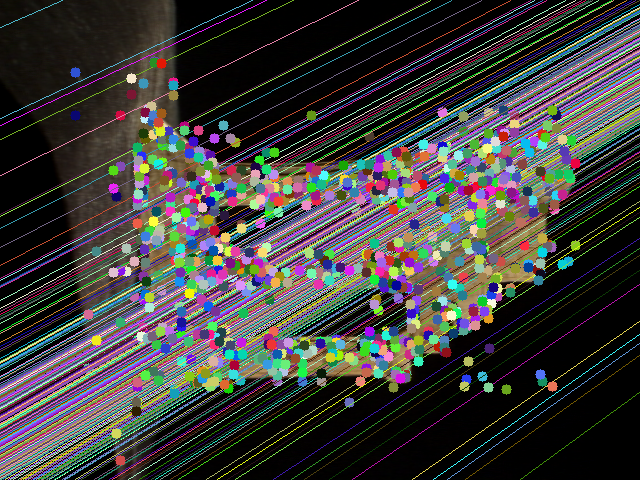
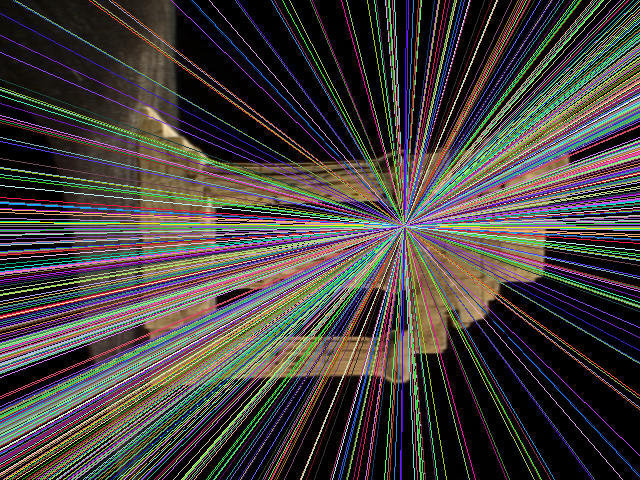
fix: 🐛 fixes at findStereoDisparity and passiveTriangulation

diff --git a/src/multiViewStereo.ts b/src/multiViewStereo.ts
@@ -1,13 +1,18 @@
 import fs from 'fs';
 import path from 'path';
 import { ndMat } from './@types';
+import * as cv from 'opencv4nodejs';
+import Matrix from 'ml-matrix';
+import { matrix2ndMat } from './lib/utils';
+import { getPixelWindow, searchMatchInEpiline } from './lib/stereo';
+import { passiveTriangulation } from './lib/passiveTriangulation';
 
 const fileLines = fs.readFileSync(path.resolve('.', 'datasets', 'temple', 'temple_par.txt'), 'utf-8').split('\n');
 
-const readCameraInformationFromFile = (filename: string) => {
+
+const readCameraProjectionMatrixFromFile = (filename: string) => {
   let K = [] as ndMat;
   let R = [] as ndMat;
-  let t = [] as Array<number>;
 
   fileLines.forEach(line => {
     const parts = line.split(' ');
@@ -25,11 +30,40 @@ const readCameraInformationFromFile = (filename: string) => {
         }
       }
       for (let i = 0; i < 3; i++) {
-        t[i] = Number(parts[i + 19]);
+        R[i].push(Number(parts[i + 19]));
       }
     }
   });
 
-  return { K, R, t };
+  return matrix2ndMat((new Matrix(K)).mmul(new Matrix(R)));
 };
 
+const img1cvMat = cv.imread(path.resolve('.', 'datasets', 'temple', 'temple0001.png'));
+const img2cvMat = cv.imread(path.resolve('.', 'datasets', 'temple', 'temple0002.png'));
+
+
+const img1 = img1cvMat.getDataAsArray();
+const img2 = img2cvMat.getDataAsArray();
+
+
+const P1 = readCameraProjectionMatrixFromFile('temple0001.png');
+const P2 = readCameraProjectionMatrixFromFile('temple0002.png');
+
+let vertex = [];
+const maxDisparity = 255;
+
+for (let i = 0; i < img1.length; i++) {
+  for (let j = 0; j < img1[i].length; j++) {
+    const w = getPixelWindow(img1, [i, j], 5);
+    if (w) {
+      const matchPosition = searchMatchInEpiline(img2, w, i, 'SSD');
+      let disp = Math.abs(j - matchPosition[1]);
+      if (disp < maxDisparity) {
+        vertex.push(passiveTriangulation([i, j], matchPosition, P1, P2));
+      }
+    }
+  }
+  console.log(i);
+}
+
+fs.writeFileSync('vertexPoints.txt', JSON.stringify(vertex));

diff --git a/src/findFundamentalMatrix.ts b/src/findFundamentalMatrix.ts
@@ -21,8 +21,8 @@ const drawLines = (lines: Array<cv.Vec3>, img1: cvMat, img2: cvMat, pts1: Array<
     let [x0, y0] = [0, -lines[i].z / lines[i].y].map(el => Math.round(el));
     let [x1, y1] = [c, -(lines[i].z + lines[i].x * c) / lines[i].y].map(el => Math.round(el));
     img1.drawLine(new cv.Point2(x0, y0), new cv.Point2(x1, y1), color, 1);
-    img1.drawCircle(new cv.Point2(pts1[i].x, pts2[i].y), 5, color, -1);
-    img2.drawCircle(new cv.Point2(pts2[i].x, pts2[i].y), 5, color, -1);
+    //img1.drawCircle(new cv.Point2(pts1[i].x, pts2[i].y), 5, color, -1);
+    //img2.drawCircle(new cv.Point2(pts2[i].x, pts2[i].y), 5, color, -1);
   }
 };
 
@@ -45,7 +45,7 @@ const img2 = cv.imread(path.resolve('.', 'datasets', 'temple', 'temple0002.png')
 
 const matches = siftMatches(img1, img2, 1000);
 
-let F = ransac(matches, 8, eightPointAlgorithm, calculateSquareError, 0.001, 0.95, 10);
+let F = ransac(matches, 8, eightPointAlgorithm, calculateSquareError, 0.5, 0.95, 10);
 
 const FcvMat = new cv.Mat(F, cv.CV_32F);
 // const { F: FcvMat } = cv.findFundamentalMat(matches.map(el => new cv.Point2(el.p1.x, el.p1.y)), matches.map(el => new cv.Point2(el.p2.x, el.p2.y)), cv.FM_RANSAC);

diff --git a/src/findStereoDisparityMap.ts b/src/findStereoDisparityMap.ts
@@ -12,7 +12,6 @@ const img2 = img2cvMat.getDataAsArray();
 
 let disparity = matrix2ndMat(Matrix.zeros(img1.length, img1[0].length));
 
-
 let max = Number.MIN_SAFE_INTEGER, min = Number.MAX_SAFE_INTEGER;
 const maxDisparity = 64;
 
@@ -22,9 +21,9 @@ const linearTransform = (x: number, min: number, max: number, a: number, b: numb
 
 for (let i = 0; i < img1.length; i++) {
   for (let j = 0; j < img1[i].length; j++) {
-    const w = getPixelWindow(img1, [i, j]);
+    const w = getPixelWindow(img1, [i, j], 1);
     if (w) {
-      const matchPosition = searchMatchInEpiline(img2, w, i, 'CORRELATION');
+      const matchPosition = searchMatchInEpiline(img2, w, i, 'SSD');
       let disp = Math.abs(j - matchPosition[1]);
       if (disp < maxDisparity) {
         if (disp < min) {
@@ -42,7 +41,6 @@ for (let i = 0; i < img1.length; i++) {
 
 
 let disparityRGB = [] as Array<Array<Array<number>>>;
-console.log(min, max);
 
 for (let i = 0; i < disparity.length; i++) {
   disparityRGB.push([]);

diff --git a/src/lib/passiveTriangulation.ts b/src/lib/passiveTriangulation.ts
@@ -1,9 +1,6 @@
 import { Matrix, SingularValueDecomposition } from 'ml-matrix';
 import { ndMat, IPoint } from '../@types';
 
-export const calculateProjectionMatrix = (K: ndMat, R: ndMat, t: Array<number>) => {
-  return (new Matrix(K)).mmul(new Matrix(R).mmul(new Matrix([[t[0]], [t[1]], [t[2]]])));
-};
 
 export const passiveTriangulation = (x1: IPoint, x2: IPoint, P1: ndMat, P2: ndMat): IPoint => {
   const [x, y] = x1;

diff --git a/src/lib/stereo.ts b/src/lib/stereo.ts
@@ -95,7 +95,7 @@ export const searchMatchInEpiline = (img: ndMat, w: ndMat, row: number, errorFun
     error: Number.MAX_SAFE_INTEGER
   };
   for (let j = 0; j < img[row].length; j++) {
-    const w2 = getPixelWindow(img, [row, j]);
+    const w2 = getPixelWindow(img, [row, j], w.length);
     if (w2) {
       const localError = errorsFunctions[errorFunction](w, w2);
       if (localError < bestResult.error) {
